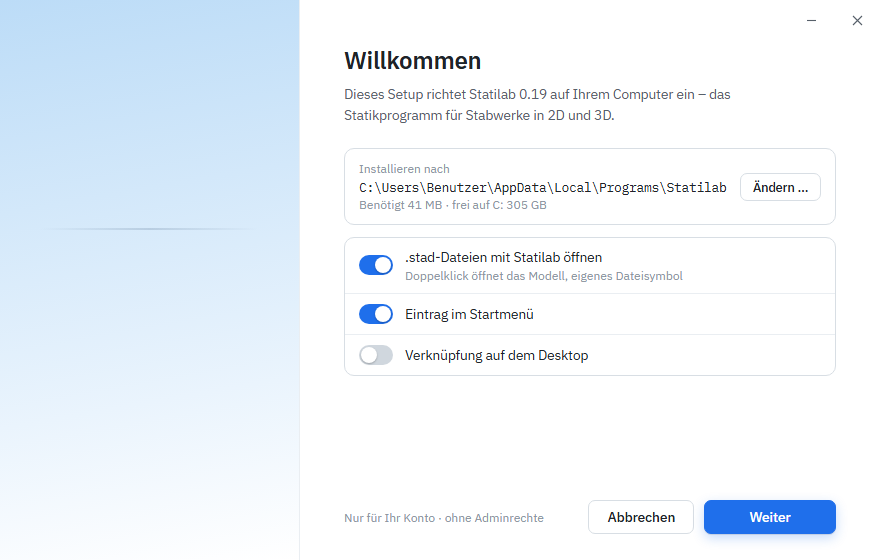
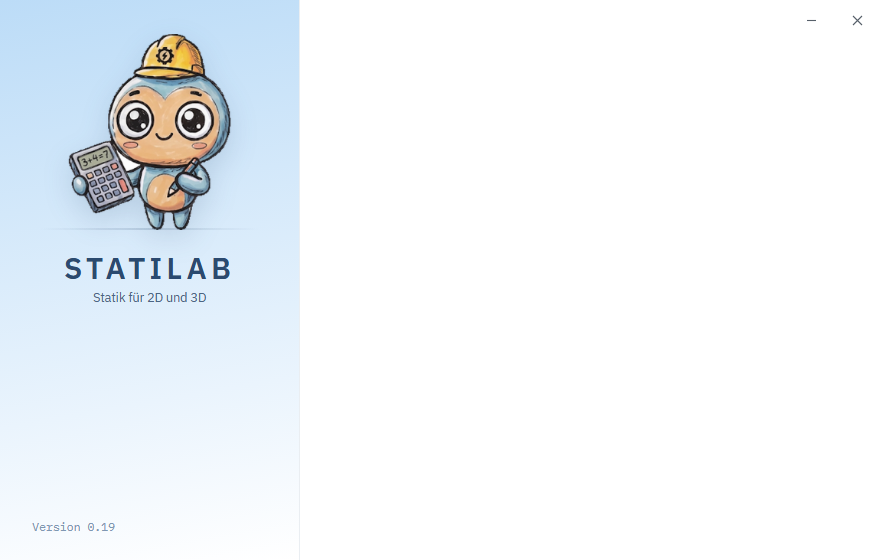
docs(setup): Beschreibung des hängenden Setup-Starts korrigieren
Das Setup bleibt auf der Willkommen-Seite stehen, wenn Schrittliste und
Inhaltsbereich nicht geladen werden. Text, Fehlerbehebung und Abbildung
entsprechend angepasst.

diff --git a/SETUP.md b/SETUP.md
@@ -40,11 +40,11 @@ Der Zielordner kann geändert werden (Vorschlag: `C:\Users\<Name>\AppData\Local\
 <p align="center"><img src="bilder/1-willkommen.png" alt="Setup-Seite Willkommen" width="720"></p>
 
 > [!WARNING]
-> **Setup bleibt hängen:** Manchmal erscheint die Willkommen-Seite **unvollständig**. Die linke Seite zeigt nur den hellblauen Hintergrund – ohne Figur, Schriftzug und Schrittliste – und das Setup reagiert nicht mehr (siehe Bild unten).
+> **Setup bleibt hängen:** Manchmal lädt die Willkommen-Seite **nicht vollständig**. Zu sehen sind nur Hintergrund, Figur, der Schriftzug „Statilab – Statik für 2D und 3D“ und die Versionsnummer; die Schrittliste links und der gesamte rechte Bereich bleiben leer, und das Setup reagiert nicht mehr (siehe Bild unten).
 >
 > **Lösung:** Das Setup-Fenster schließen (falls nötig über den Task-Manager: *Strg + Umschalt + Esc* → „Statilab-Setup“ → *Task beenden*) und `Statilab-Setup.exe` **erneut starten**. Beim zweiten Start läuft es normal durch.
 
-<p align="center"><img src="bilder/1b-haengt.png" alt="Hängendes Setup: linke Seite zeigt nur den Hintergrund" width="560"></p>
+<p align="center"><img src="bilder/1b-haengt.png" alt="Hängendes Setup: nur Figur und Schriftzug, rechter Bereich leer" width="560"></p>
 
 ## 4. Lizenz
 
@@ -79,7 +79,7 @@ Die Installation ist abgeschlossen. Mit eingeschaltetem **Statilab jetzt starten
 | Problem | Lösung |
 |---|---|
 | Nach dem Doppelklick passiert nichts oder das Startbild bleibt lange stehen | bis zu 2 Minuten warten (Prüfung durch Windows Defender beim ersten Start), danach das Setup erneut starten |
-| Willkommen-Seite links nur Hintergrund, Setup reagiert nicht | Setup schließen und erneut starten (siehe [Schritt 3](#3-willkommen)) |
+| Setup zeigt nur Figur und Schriftzug, ohne Schrittliste und Inhalt, und reagiert nicht | Setup schließen und erneut starten (siehe [Schritt 3](#3-willkommen)) |
 | „Der Computer wurde durch Windows geschützt“ | **Weitere Informationen → Trotzdem ausführen** |
 | „Statilab ist noch geöffnet …“ | alle Statilab-Fenster schließen, dann **Nochmals versuchen** |
 | Lizenzschlüssel wird als ungültig gemeldet | Schlüssel vollständig kopieren (beginnt mit `STATI-`) oder **Lizenzdatei wählen …** verwenden |
